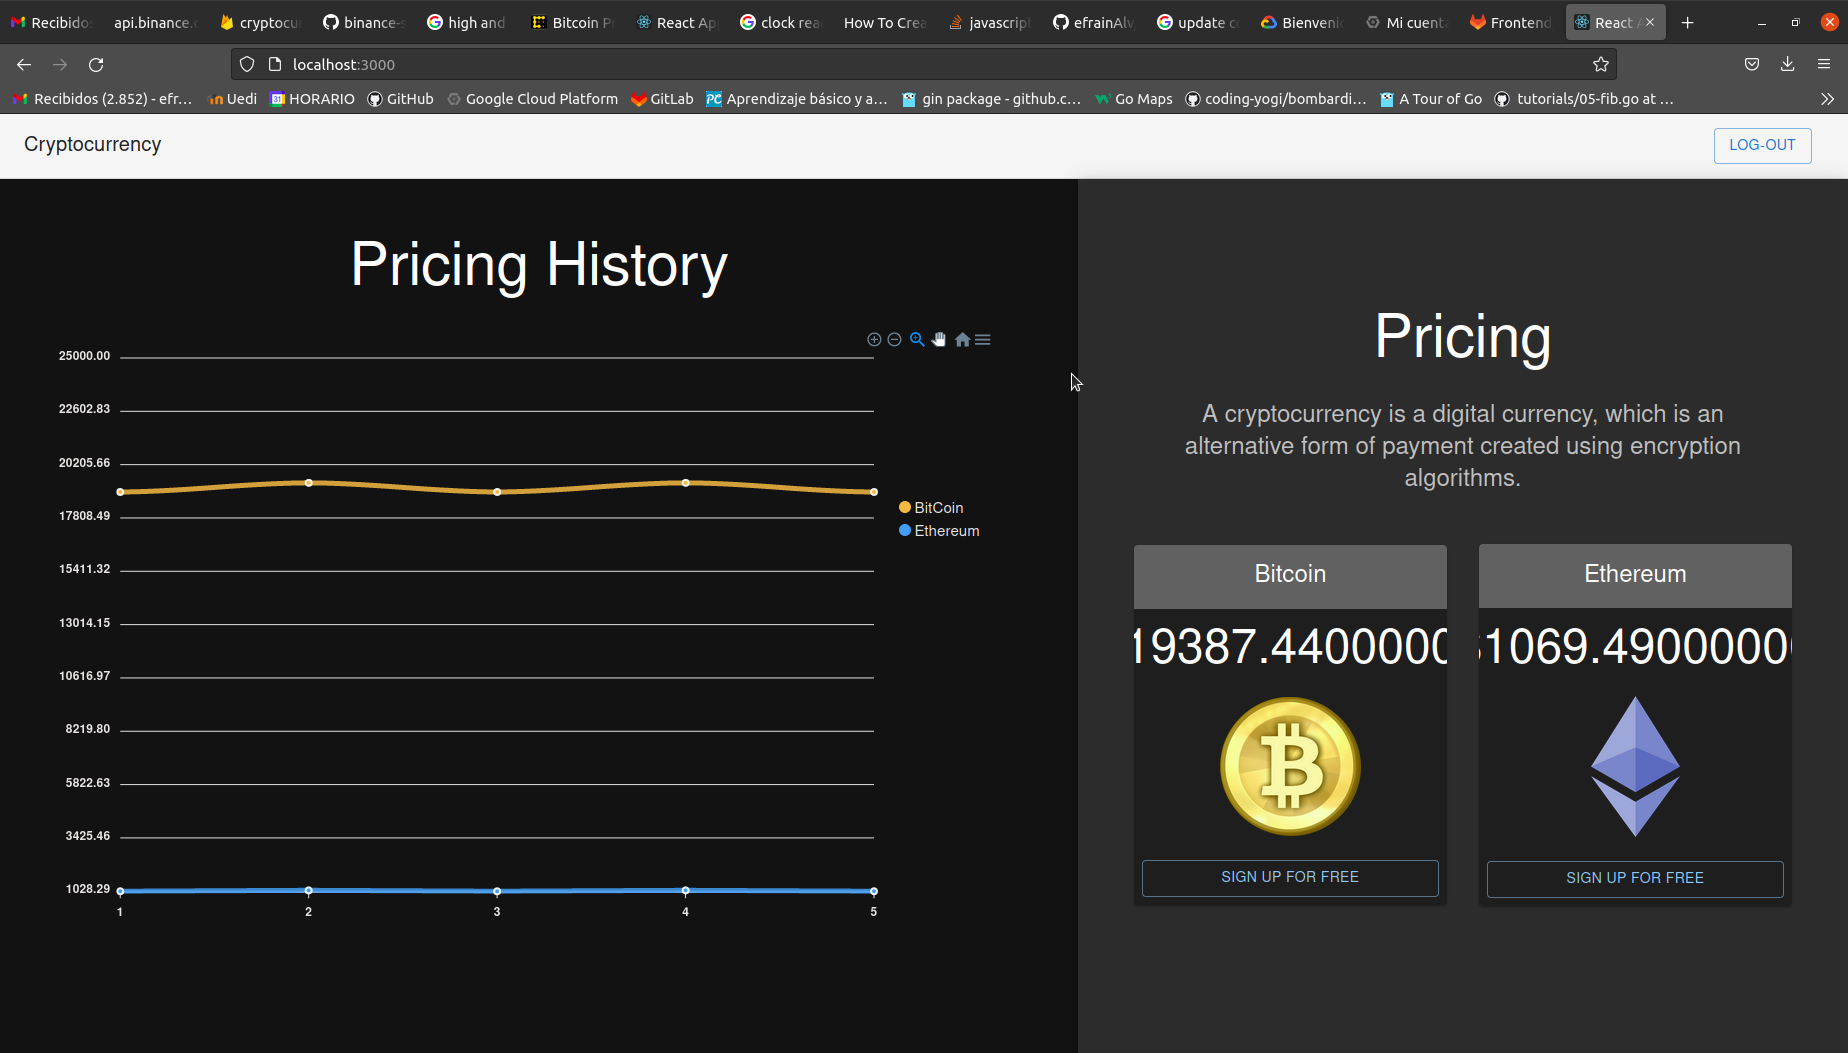
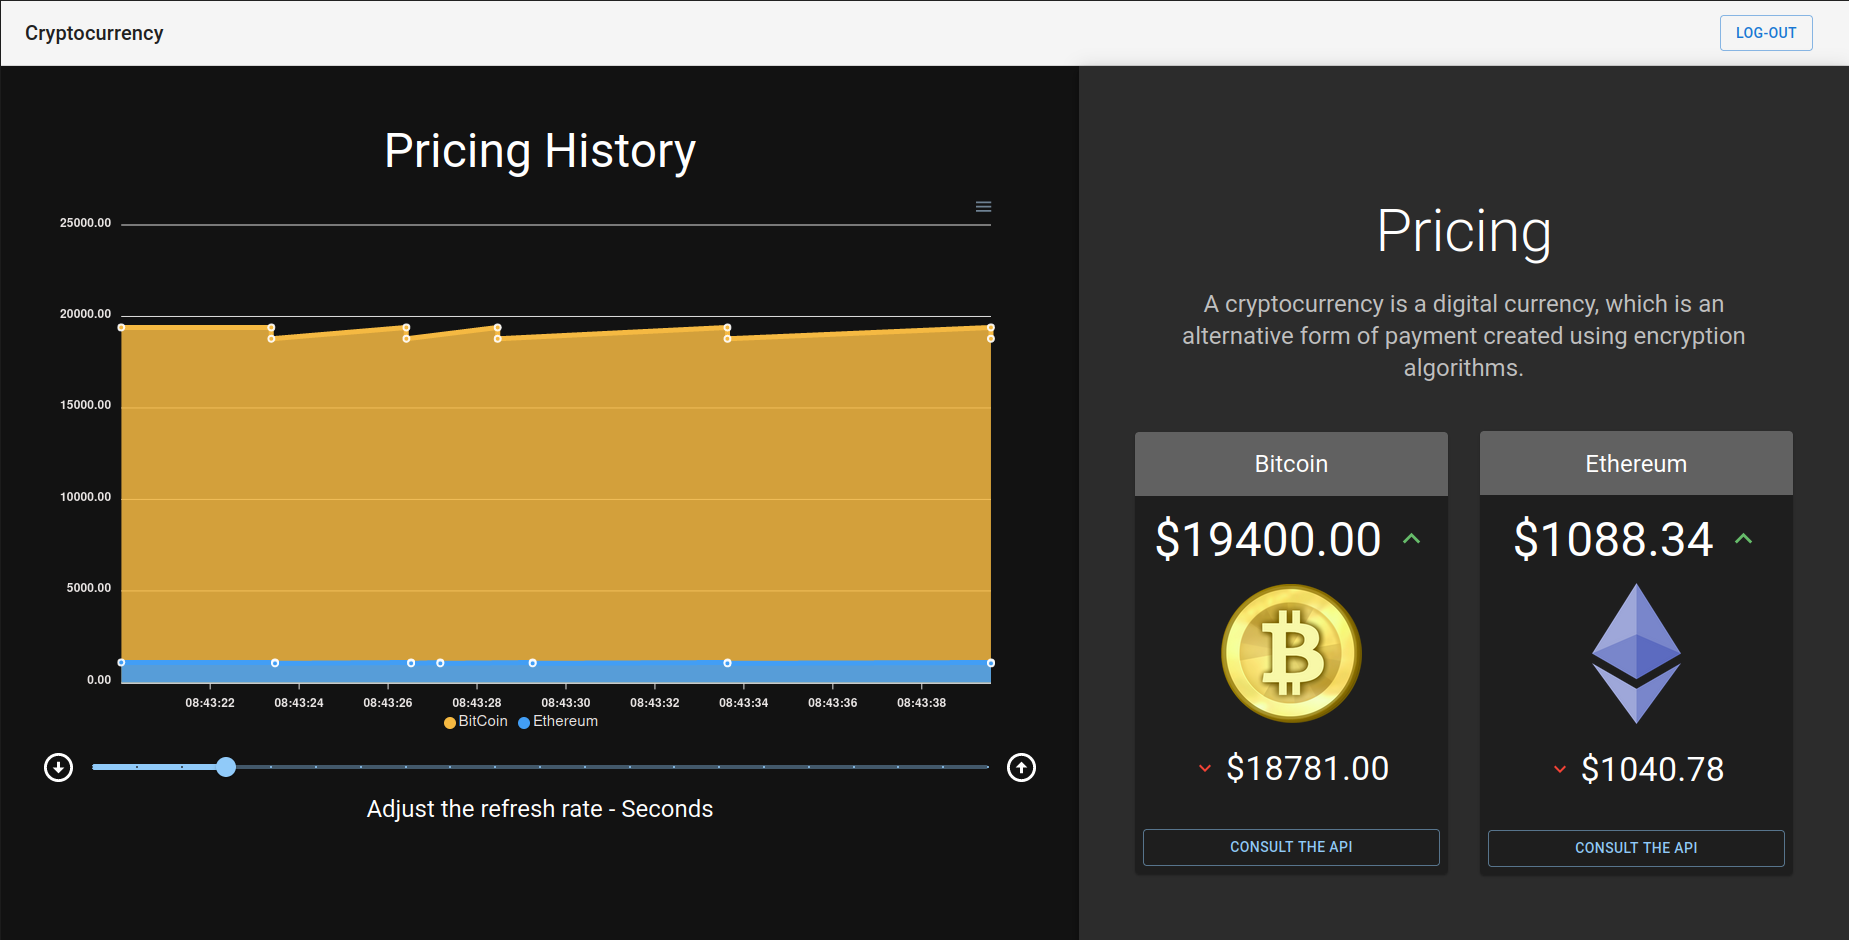
Doc

diff --git a/README.md b/README.md
@@ -49,7 +49,7 @@ Utilizada para la autenticación de usuarios. Es importante que se identifiquen 
 
 ### Home
 
-Este Dashboard muestra los precios en dolares del BitCoin y Ethereum en la parte derecha. En la parte izquierda se muestra una grafica que va comparando los precios altos y bajos de cada criptomoneda. El Dahsboard tiene una taza de actualizacion de aproximadamente 3 segundos.
+Este Dashboard muestra los precios en dolares más altos y más bajos del BitCoin y Ethereum en la parte derecha. En la parte izquierda se muestra una grafica que va comparando los precios altos y bajos de cada criptomoneda. El Dahsboard tiene un slider que ajusta la tasa de refresco de los precios. La tasa de refresco va de 0 hasta 60 segundos.
 
 ![alt](./images/home.png)
 
